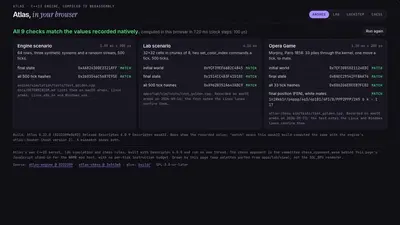
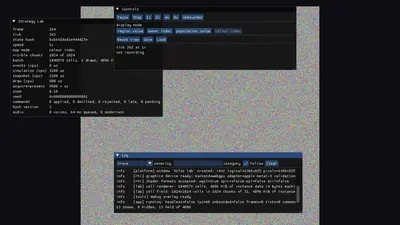
Atlas project page runs the lab app itself; the kernel demo stays one click away
demo_embed now points at /demos/atlas-lab/ (Atlas's own lab app compiled with Emscripten, SDL_GPU replaced by a WebGPU backend). A new demo_also field links a second demo under the frame: the hashes, lockstep and chess demo, which also works on phones, where the lab shows its narrow-screen note. The poster is a frame of the lab running.

diff --git a/src/content.config.ts b/src/content.config.ts
@@ -14,6 +14,8 @@ const projects = defineCollection({
     demo_label: z.string().optional(),     // one sentence saying exactly what runs (shown under the demo)
     demo_height: z.number().optional(),    // iframe height in px, default 640
     demo_kind: z.string().optional(),      // six words or fewer from demo_label, for the home page's demo rows
+    demo_also: z.string().optional(),      // a second, smaller demo of the same project, linked under the first
+    demo_also_label: z.string().optional(),
     demo_poster: z.string().optional(),    // a screenshot of the running demo, /img/demo/<slug>.jpg (npm run images)
     image: z.string().optional(),
     image_url: z.string().optional(),      // the address the screenshot shows, when it is a live site; the frame bar prints it

diff --git a/content/projects/atlas-engine.md b/content/projects/atlas-engine.md
@@ -2,9 +2,11 @@
 title: Atlas
 blurb: C++23 engine for map-based strategy games with a deterministic lockstep simulation and sandboxed WebAssembly mods.
 repo: https://github.com/happyc0der/atlas-engine
-demo_embed: /demos/atlas-engine/
-demo_label: "Atlas's own C++23 simulation kernel, lab world and chess rules compiled to WebAssembly and run single-threaded in your browser, where the repos' golden hashes are recomputed and checked; the chess opponent is the committed C mod's .wasm behind a JavaScript stand-in for the engine's WAMR mod host, without its per-tick instruction budget, and the drawing is this page's own, not the SDL_GPU renderer."
-demo_kind: "C++23 kernel compiled to WebAssembly"
+demo_embed: /demos/atlas-lab/
+demo_label: "Atlas's own lab app (C++23 sim, view and ImGui UI) compiled with Emscripten; its SDL_GPU layer is replaced by a WebGPU backend written for this demo, the shaders were translated from HLSL with glslang and Tint, and it runs single-threaded."
+demo_kind: "Lab app, compiled with Emscripten"
+demo_also: /demos/atlas-engine/
+demo_also_label: "Hashes, lockstep and chess (works on phones)"
 demo_poster: /img/demo/atlas-engine.jpg
 demo_height: 800
 image: /img/atlas-engine.png
